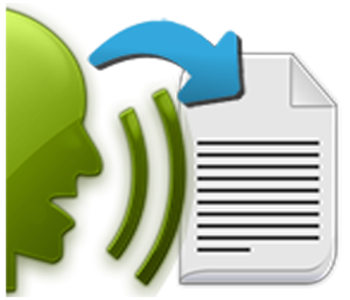
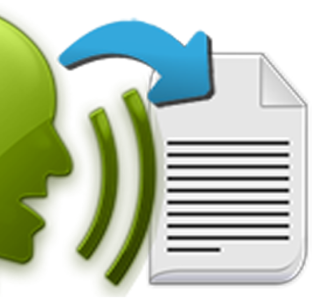
utilisations

diff --git a/cnam/travaux/probatoire/présentation/principles.tex b/cnam/travaux/probatoire/présentation/principles.tex
@@ -1,6 +1,6 @@
 \section{Principes}
 %⋅⋅⋅⋅⋅⋅⋅⋅⋅⋅⋅⋅⋅⋅⋅⋅⋅⋅⋅⋅⋅⋅⋅⋅⋅⋅⋅⋅⋅⋅⋅⋅⋅⋅⋅⋅⋅⋅⋅⋅⋅⋅⋅⋅⋅⋅⋅⋅⋅⋅⋅⋅⋅⋅⋅⋅⋅⋅⋅⋅⋅⋅⋅⋅⋅⋅⋅⋅⋅⋅⋅⋅⋅⋅⋅⋅⋅⋅⋅
-\begin{frame}{\bititle\\Principes}
+\begin{frame}{\bititle\\Principes / Utilisations}
 \begin{columns}\begin{column}{.5\textwidth}
 
 \begin{itemize}
@@ -18,16 +18,16 @@
 
 \end{column}\begin{column}{.5\textwidth}
 
-\only<1>{\imgh{0}{16}{email}}
-\only<2>{\imgh{0}{13}{muffins}}
+\only<1>{\imgh{2}{16}{email}}
+\only<2>{\imgh{3.5}{13}{muffins}}
 \only<3>{\imgh{0}{20}{steganography}}
-\only<4>{\imgh{0}{19}{textures}}
-\only<5>{\imgh{0}{7}{ocr}}
-\only<6>{\imgh{0}{14}{faceid}}
-\only<7>{\imgh{0}{12}{speech}}
-\only<8>{\imgh{0}{14}{protein}}
-\only<9>{\imgh{0}{15}{diagnosis}}
-\only<10>{\imgh{0}{10}{texts}}
+\only<4>{\imgh{0.5}{19}{textures}}
+\only<5>{\imgh{6.5}{7}{ocr}}
+\only<6>{\imgh{3}{14}{faceid}}
+\only<7>{\imgh{4}{12}{speech}}
+\only<8>{\imgh{3}{14}{protein}}
+\only<9>{\imgh{2.5}{15}{diagnosis}}
+\only<10>{\imgh{5.62}{10}{texts}}
 
 \end{column}\end{columns}
 \end{frame}
